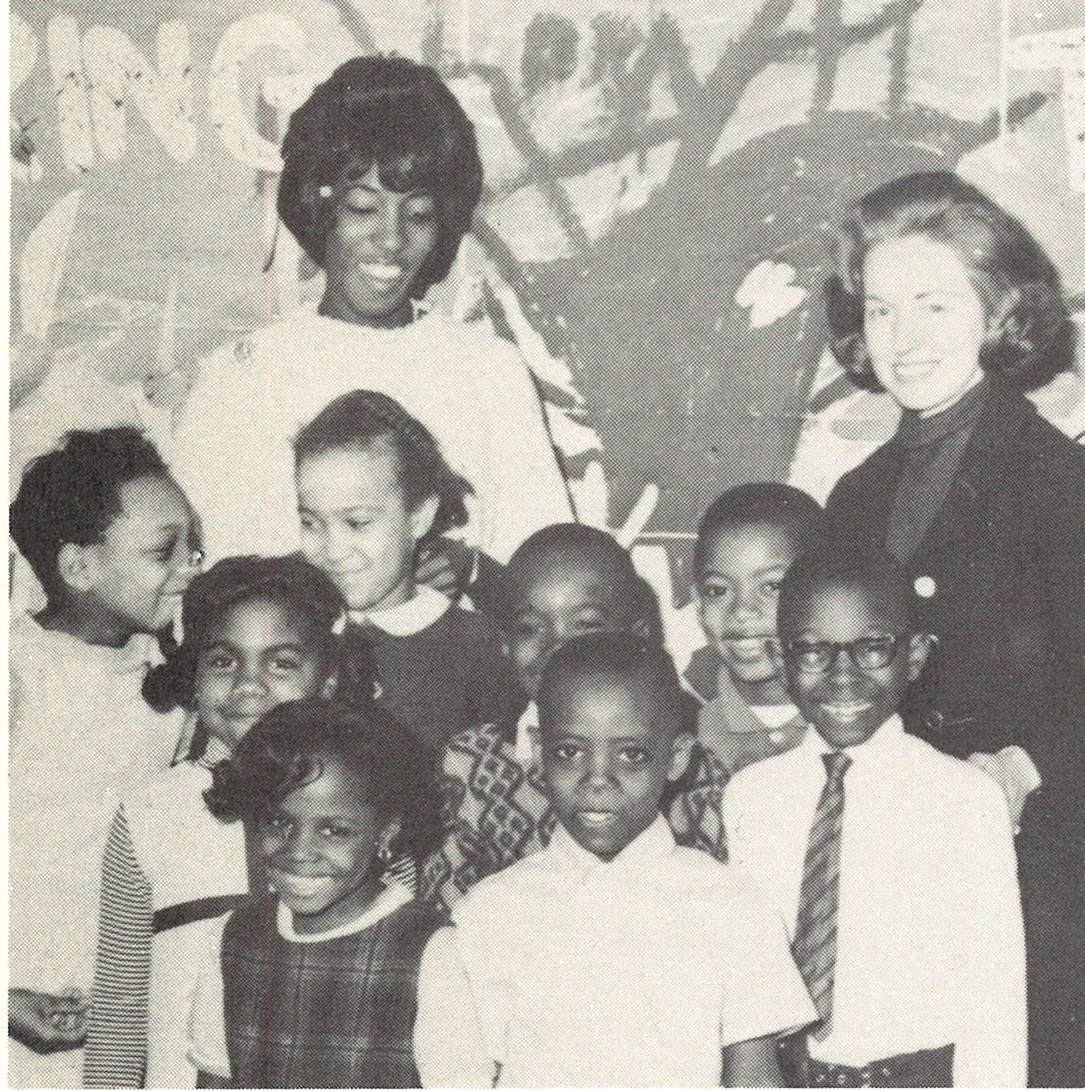
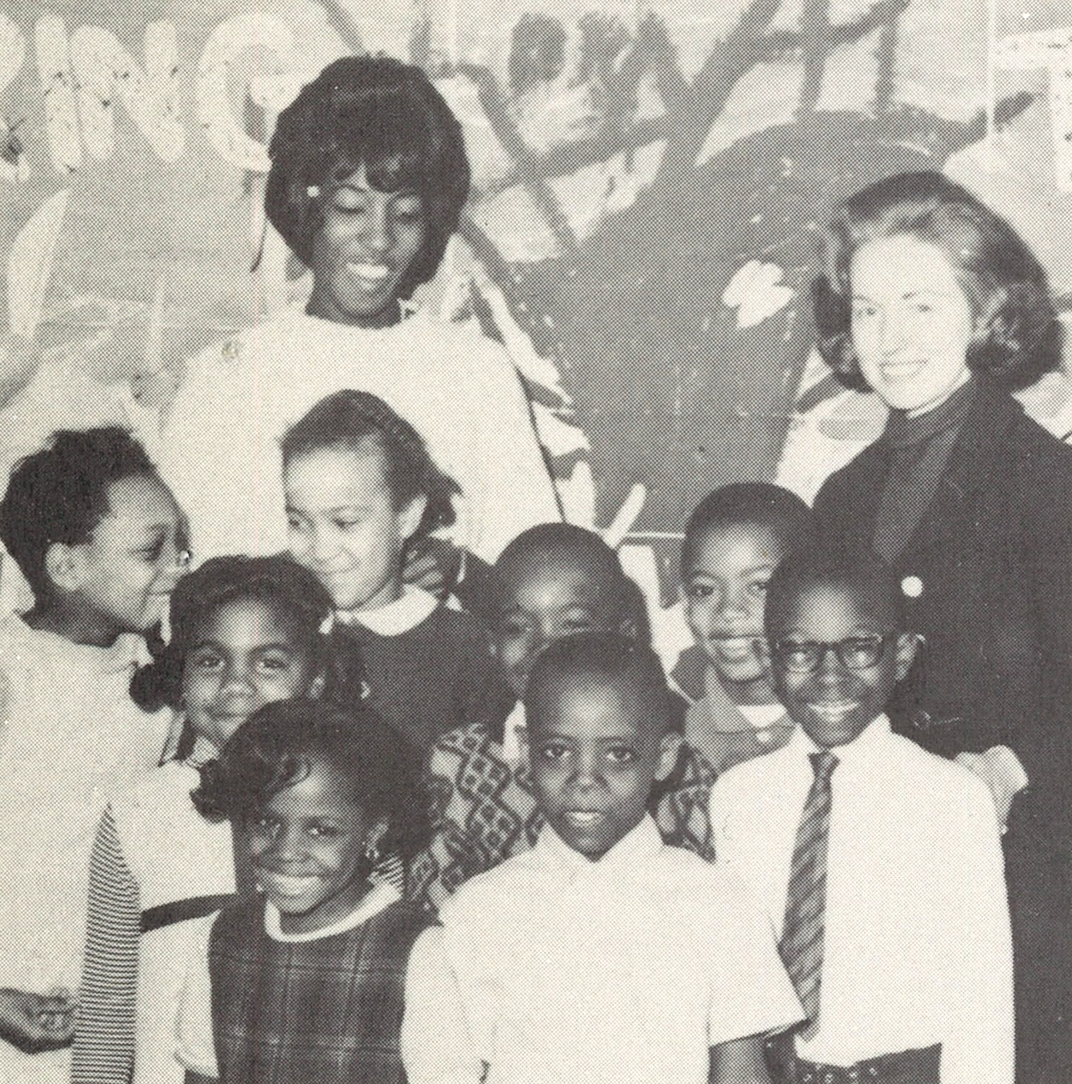
updated history page scroll

diff --git a/scrolling-images.css b/scrolling-images.css
@@ -6,40 +6,47 @@ html, body {
     overflow-x: hidden;
     width: 100%;
     position: relative;
+    /* Remove height: 100% to allow natural scrolling */
 }
 
 .container {
     overflow-x: hidden;
+    /* Remove height: 100% to allow natural document flow */
 }
 
+/* Make main container use normal document flow */
+main {
+    display: flex;
+    position: relative;
+    min-height: 100vh; /* Ensure minimum height but allow expansion */
+}
 
 #text-panel {
     width: 50%;
     background-color: #f8f9fa;
-    overflow-y: auto;
+    /* Remove overflow-y: auto and height: 100% */
+    /* Remove position: absolute */
     overflow-x: hidden;
     border-right: 1px solid #303030;
     padding: 20px;
-    position: absolute;
-    left: 0;
-    top: 0;
-    height: 100%;
+    position: relative; /* Changed from absolute */
+    /* Remove left: 0, top: 0, height: 100% */
 }
 
 #image-container {
-    position: fixed;
+    position: fixed; /* Keep fixed so it stays in view while scrolling */
     right: 0;
+    top: 0; /* Ensure it starts at the top */
     width: 50%;
-    height: 100%;
+    height: 100vh; /* Use viewport height */
     background-color: #f0f0f0;
-    display: flex;
-    align-items: center;
-    justify-content: center;
+    z-index: 1; /* Ensure it's above other content */
 }
 
 #image-display {
     width: 100%;
     height: 100%;
+    overflow-y: auto; /* Make it scrollable */
     position: relative;
 }
 
@@ -51,7 +58,7 @@ html, body {
 #text-content h2 {
     color: #303030;
     font-size: 24px;
-        line-height: 1.2;
+    line-height: 1.2;
     padding-bottom: 10px;
 }
 
@@ -79,39 +86,30 @@ html, body {
     color: #303030;
 }
 
-/* Image styling */
+/* Image styling - Simple stacked layout */
 .image {
-    position: absolute;
-    top: 0;
-    left: 0;
+    position: relative; /* Changed from absolute */
     width: 100%;
-    height: 100%;
-    opacity: 0;
-    transition: opacity .5s ease-in-out;
-    display: flex;
-    justify-content: center;
-    align-items: center;
-    margin: 0;
-    padding: 0;
+    height: auto; /* Changed from 100% */
+    margin-bottom: -20px; /* Remove margin between images */
+    display: block; /* Changed from flex */
     overflow: hidden;
+    /* Remove opacity and transition properties */
 }
 
-.image.active {
-    opacity: 1;
-    z-index: 1;
-}
+/* Remove .image.active styles since we're not using them anymore */
 
 .image img {
-    max-width: 140%;
-    max-height: 140%;
+    width: 100%;
+    height: auto; /* Changed from max-height: 140% */
     object-fit: cover;
-    transform: translate(-50%, -50%);
-    position: absolute;
-    top: 50%;
-    left: 50%;
-    min-width: 100%;
-    min-height: 100%;
-        filter: grayscale(100%);
+    display: block; /* Changed from absolute positioning */
+    position: relative; /* Changed from absolute */
+    transform: none; /* Remove transform */
+    top: auto; /* Remove absolute positioning */
+    left: auto; /* Remove absolute positioning */
+    filter: grayscale(100%);
+    /* Remove min-width and min-height */
 }
 
 .image-caption {
@@ -183,7 +181,7 @@ html, body {
     max-width: none;
     border-radius: 0; /* Remove border radius for full-bleed effect */
     box-shadow: none; /* Optional: Remove shadow for cleaner full-bleed look */
-        filter: grayscale(100%);
+    filter: grayscale(100%);
 }
 
 .mobile-image-caption {
@@ -204,7 +202,7 @@ html, body {
 @media (max-width: 768px) {
     main {
         flex-direction: column-reverse;
-        overflow-x: hid;
+        overflow-x: hidden;
     }
     
     #text-panel {
@@ -229,7 +227,7 @@ html, body {
     #text-content h2 {
         font-size: 20px;
         text-align: left;
-            line-height: 1.2;
+        line-height: 1.2;
         line-height: 1.65rem;
     }
     
@@ -250,7 +248,8 @@ html, body {
         margin-top: 0;
         z-index: 1000;
     }
-        .mobile-image-container {
+    
+    .mobile-image-container {
         display: block;
     }
     

diff --git a/scrolling-images.js b/scrolling-images.js
@@ -1,44 +1,10 @@
 document.addEventListener('DOMContentLoaded', () => {
-    // Get all text sections and images
-    const sections = document.querySelectorAll('.text-section');
-    const images = document.querySelectorAll('.image');
-    
-    // Set up Intersection Observer to detect which section is in view
-    const observerOptions = {
-        root: null,
-        rootMargin: '-10% 0px -60% 0px',
-        threshold: 0
-    };
-    
-    const observer = new IntersectionObserver((entries) => {
-        entries.forEach(entry => {
-            if (entry.isIntersecting) {
-                const sectionId = entry.target.id;
-                const imageId = 'image-' + sectionId;
-                
-                // Hide all images and show the corresponding one
-                images.forEach(img => img.classList.remove('active'));
-                
-                const activeImage = document.getElementById(imageId);
-                if (activeImage) {
-                    activeImage.classList.add('active');
-                }
-            }
-        });
-    }, observerOptions);
-    
-    // Observe all sections
-    sections.forEach(section => observer.observe(section));
-    
     // Handle mobile screens - adjust layout on resize
     function handleResize() {
         const bottomMenu = document.getElementById('bottom-menu');
         
         if (window.innerWidth <= 768) {
             // Mobile layout adjustments
-            document.getElementById('text-panel').style.height = 'auto';
-            document.getElementById('image-container').style.height = '50vh';
-            
             // Position menu at the top for mobile view
             if (bottomMenu) {
                 // Clear any existing positioning
@@ -64,10 +30,6 @@ document.addEventListener('DOMContentLoaded', () => {
         } else {
             // Desktop layout
             const headerHeight = document.getElementById('site-header')?.offsetHeight || 0;
-            document.getElementById('text-panel').style.height = `calc(100% - ${headerHeight}px)`;
-            document.getElementById('image-container').style.height = `calc(100% - ${headerHeight}px)`;
-            document.getElementById('text-panel').style.top = `${headerHeight}px`;
-            document.getElementById('image-container').style.top = `${headerHeight}px`;
             document.getElementById('text-panel').style.paddingTop = '20px'; // Reset to original padding
             
             // Position for desktop view
@@ -85,5 +47,4 @@ document.addEventListener('DOMContentLoaded', () => {
     // Initial call and event listener for resize
     handleResize();
     window.addEventListener('resize', handleResize);
-    
 });
